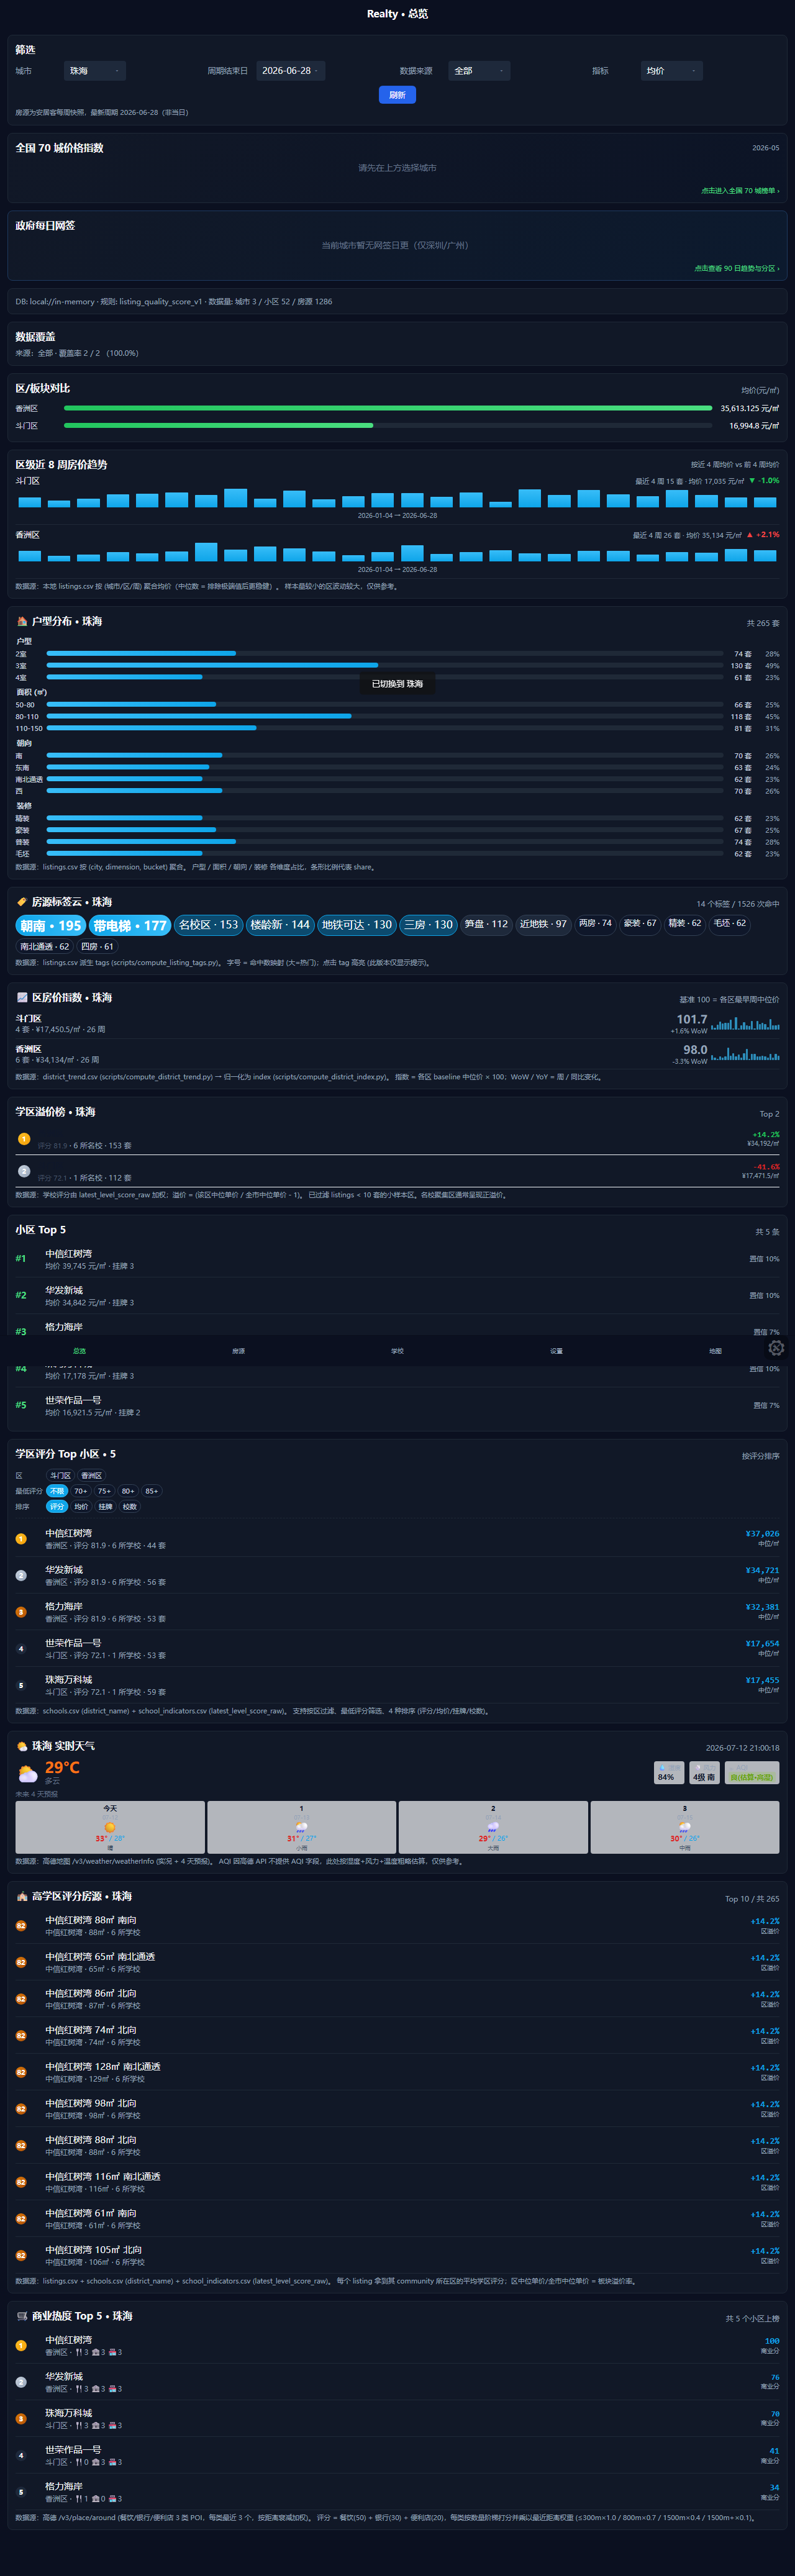
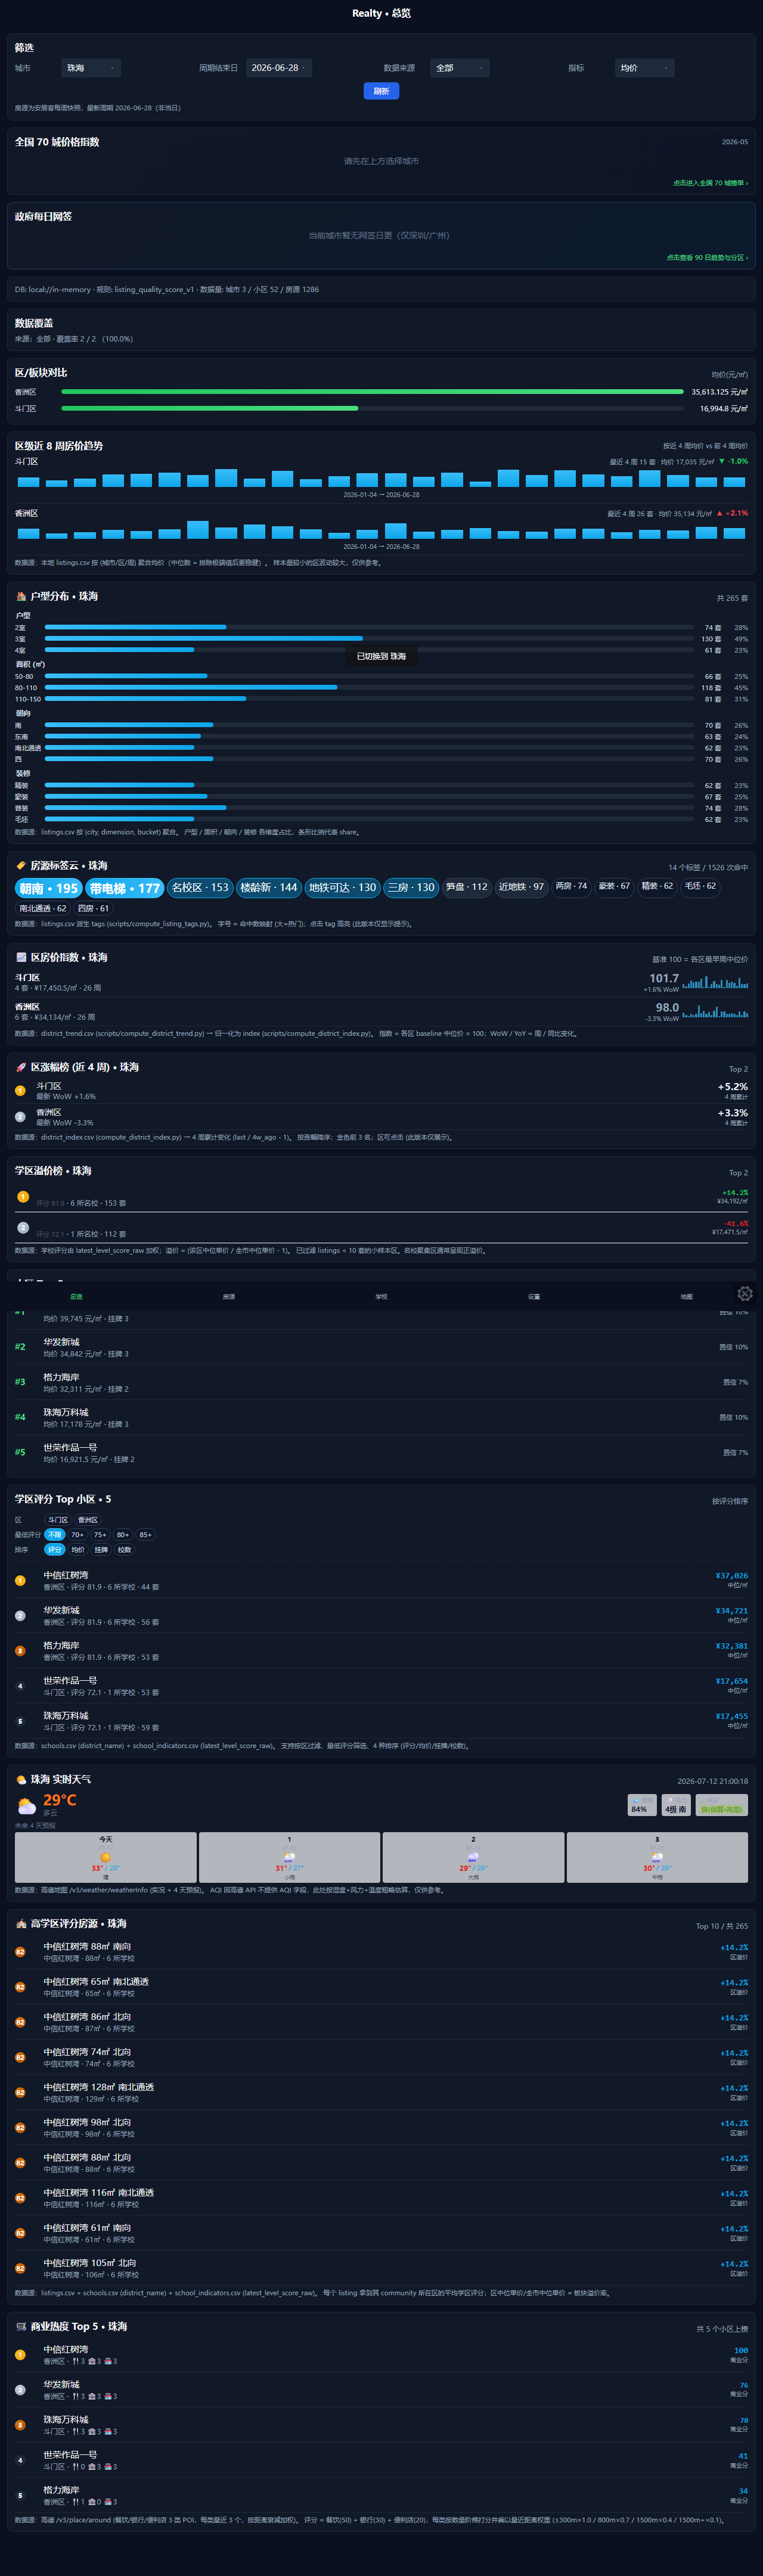
v0.30.0: trend-14 区涨幅榜
- dashboard 「🚀 区涨幅榜 (近 4 周)」卡
- getDistrictChangeRank query 复用 district_index.csv
- 每区取最近一周和 4 周前中位价算累计变化
- 颜色编码 >+0.5% 红 / <-0.5% 绿, 金牌前 3 名
- 314/314 unit tests + 23/23 smoke 全绿

diff --git a/realty_app/src/pages/dashboard/dashboard.vue b/realty_app/src/pages/dashboard/dashboard.vue
@@ -474,6 +474,44 @@
         </view>
       </view>
 
+      <!-- v0.30.0 trend-14 区涨幅榜 (4 周累计) -->
+      <view v-if="districtChange && districtChange.items.length > 0" class="card">
+        <view class="row-between">
+          <view class="card-title">🚀 区涨幅榜 (近 4 周) · {{ districtChange.cityName }}</view>
+          <view class="muted">Top {{ districtChange.items.length }}</view>
+        </view>
+        <view v-if="districtChange.items.length === 0" class="empty">暂无数据</view>
+        <view
+          v-for="it in districtChange.items"
+          :key="it.districtName"
+          class="dc-row"
+        >
+          <view class="dc-rank">
+            <text :class="['sp-medal-mini', spMedalClass(it.rank)]">{{ it.rank }}</text>
+          </view>
+          <view class="dc-mid">
+            <view class="dc-name">{{ it.districtName }}</view>
+            <view class="muted">最新 WoW
+              <text v-if="it.latestMom != null" :class="diChangeClass(it.latestMom)">
+                {{ it.latestMom > 0 ? "+" : "" }}{{ it.latestMom.toFixed(1) }}%
+              </text>
+              <text v-else class="muted">—</text>
+            </view>
+          </view>
+          <view class="dc-right">
+            <text v-if="it.recentChange4w != null" :class="['dc-4w', diChangeClass(it.recentChange4w)]">
+              {{ it.recentChange4w > 0 ? "+" : "" }}{{ it.recentChange4w.toFixed(1) }}%
+            </text>
+            <text v-else class="muted">—</text>
+            <view class="muted" style="font-size: 20rpx">4 周累计</view>
+          </view>
+        </view>
+        <view class="muted" style="margin-top: 8rpx; font-size: 22rpx">
+          数据源：district_index.csv (compute_district_index.py) → 4 周累计变化 (last / 4w_ago - 1)。
+          按涨幅降序；金色前 3 名；区可点击 (此版本仅展示)。
+        </view>
+      </view>
+
       <!-- v0.11.0 学区溢价榜 -->
       <view v-if="schoolPremiumOverview && schoolPremiumOverview.items.length > 0" class="card">
         <view class="row-between">
@@ -825,7 +863,7 @@ import { onPullDownRefresh, onShow } from "@dcloudio/uni-app";
 import { useAppStore } from "../../store/app";
 import { toErrorMessage } from "../../utils/errorMessage";
 import { getCities, getCoverage, getPeriods, getRuntimeMeta, getSources } from "../../local/queries";
-import { getCommunityRanking, getDistrictCompare, getCityDistrictOverview, getWangqianHeatmap, getSchoolPremiumRank, getSchoolPremiumCommunityRank, getWeather, getTopListingsBySchoolPremium, getCommercialRanking, getCommunityCompareByDistrict, getDistrictWangqianRank, getCommuteRanking, getLayoutDistribution, getListingTagCloud, getDistrictIndex, type DistrictTrendItem, type WangqianOverviewItem, type SchoolPremiumOverview, type SchoolPremiumCommunityItem, type WeatherResponse, type ListingSchoolPremiumOverview, type CommercialRankingResponse, type DistrictCommunityCompareResponse, type DistrictWangqianRankResponse, type CommuteRankingResponse, type LayoutDistributionResponse, type TagCloudResponse, type DistrictIndexResponse } from "../../local/queries";
+import { getCommunityRanking, getDistrictCompare, getCityDistrictOverview, getWangqianHeatmap, getSchoolPremiumRank, getSchoolPremiumCommunityRank, getWeather, getTopListingsBySchoolPremium, getCommercialRanking, getCommunityCompareByDistrict, getDistrictWangqianRank, getCommuteRanking, getLayoutDistribution, getListingTagCloud, getDistrictIndex, getDistrictChangeRank, type DistrictTrendItem, type WangqianOverviewItem, type SchoolPremiumOverview, type SchoolPremiumCommunityItem, type WeatherResponse, type ListingSchoolPremiumOverview, type CommercialRankingResponse, type DistrictCommunityCompareResponse, type DistrictWangqianRankResponse, type CommuteRankingResponse, type LayoutDistributionResponse, type TagCloudResponse, type DistrictIndexResponse, type DistrictChangeResponse } from "../../local/queries";
 import {
   getLatestIndexForCity,
   getLatestMonth,
@@ -870,6 +908,7 @@ const layoutDistribution = ref<LayoutDistributionResponse | null>(null);
 const tagCloud = ref<TagCloudResponse | null>(null);
 const tagCloudFilteredHint = ref<string>("");
 const districtIndex = ref<DistrictIndexResponse | null>(null);
+const districtChange = ref<DistrictChangeResponse | null>(null);
 const schoolPremiumOverview = ref<SchoolPremiumOverview | null>(null);
 const schoolPremiumCommunityItems = ref<SchoolPremiumCommunityItem[]>([]);
 // v0.26.0 trend-11: 过滤 + 排序 controls
@@ -1190,6 +1229,15 @@ async function loadRankingAndDistrict() {
       } catch (e) {
         console.warn("getDistrictIndex failed:", e);
         districtIndex.value = null;
+      }
+      // v0.30.0 区涨幅榜
+      try {
+        districtChange.value = await getDistrictChangeRank({
+          cityId: app.cityId
+        });
+      } catch (e) {
+        console.warn("getDistrictChangeRank failed:", e);
+        districtChange.value = null;
       }
       // v0.11.0 学区溢价榜
       schoolPremiumOverview.value = await getSchoolPremiumRank({
@@ -2532,6 +2580,36 @@ onShow(async () => {
   border-radius: 2rpx;
   min-height: 4rpx;
   opacity: 0.7;
+}
+
+/* v0.30.0 区涨幅榜 */
+.dc-row {
+  display: flex;
+  align-items: center;
+  gap: 12rpx;
+  padding: 8rpx 0;
+  border-bottom: 1rpx solid #1f2937;
+}
+.dc-rank {
+  flex: 0 0 60rpx;
+}
+.dc-mid {
+  flex: 1 1 auto;
+  min-width: 0;
+}
+.dc-name {
+  font-size: 28rpx;
+  font-weight: 500;
+  color: #e2e8f0;
+}
+.dc-right {
+  flex: 0 0 auto;
+  text-align: right;
+}
+.dc-4w {
+  font-size: 32rpx;
+  font-weight: 700;
+  font-variant-numeric: tabular-nums;
 }
 
 /* v0.10.0 网签热度榜 */

diff --git a/realty_app/src/local/queries.ts b/realty_app/src/local/queries.ts
@@ -1881,3 +1881,81 @@ export function getDistrictIndex(params: { cityId: number }): DistrictIndexRespo
     items
   };
 }
+
+// ============================================================================
+// v0.30.0 trend-14 区涨幅榜
+// ============================================================================
+
+export interface DistrictChangeItem {
+  districtName: string;
+  /** 最近 WoW % */
+  latestMom: number | null;
+  /** 最近 4 周累计变化 % (last - 4w_ago) / 4w_ago */
+  recentChange4w: number | null;
+  /** 最近 WoW 涨幅排名 */
+  rank: number;
+}
+
+export interface DistrictChangeResponse {
+  cityId: number;
+  cityName: string;
+  /** 按最近 4 周涨幅降序 */
+  items: DistrictChangeItem[];
+}
+
+/**
+ * 给定城市，按"最近 4 周累计变化"对区排序，返回涨幅榜。
+ * 用于 dashboard "区涨幅榜" 卡片。
+ */
+export function getDistrictChangeRank(params: { cityId: number }): DistrictChangeResponse | null {
+  const city = store.getCityById(params.cityId);
+  if (!city) return null;
+  const all = store.getDistrictIndicesByCity(params.cityId);
+  if (all.length === 0) return null;
+
+  const byDistrict: Record<string, LocalDistrictIndex[]> = {};
+  for (const r of all) {
+    if (!byDistrict[r.districtName]) byDistrict[r.districtName] = [];
+    byDistrict[r.districtName].push(r);
+  }
+  for (const k in byDistrict) {
+    byDistrict[k].sort((a, b) => a.weekEnd.localeCompare(b.weekEnd));
+  }
+
+  const items: DistrictChangeItem[] = [];
+  for (const dn in byDistrict) {
+    const arr = byDistrict[dn];
+    if (arr.length < 2) continue;
+    const last = arr[arr.length - 1];
+    // 找 4 周前 (如果有)
+    const lastWeek = new Date(last.weekEnd + "T00:00:00Z");
+    const fourWeeksAgo = new Date(lastWeek.getTime() - 28 * 24 * 3600 * 1000);
+    const fourWStr = fourWeeksAgo.toISOString().slice(0, 10);
+    // 找 ≤ fourWStr 的最近一周
+    const older = [...arr].reverse().find((x) => x.weekEnd <= fourWStr);
+    let recentChange4w: number | null = null;
+    if (older && older.medianUnitPrice > 0) {
+      recentChange4w =
+        Math.round(((last.medianUnitPrice - older.medianUnitPrice) / older.medianUnitPrice) * 1000) / 10;
+    }
+    items.push({
+      districtName: dn,
+      latestMom: last.momChange,
+      recentChange4w,
+      rank: 0
+    });
+  }
+  // 排序: recentChange4w 降序 (null 排最后)
+  items.sort((a, b) => {
+    if (a.recentChange4w == null && b.recentChange4w == null) return 0;
+    if (a.recentChange4w == null) return 1;
+    if (b.recentChange4w == null) return -1;
+    return b.recentChange4w - a.recentChange4w;
+  });
+  items.forEach((it, i) => (it.rank = i + 1));
+  return {
+    cityId: params.cityId,
+    cityName: city.cityName,
+    items
+  };
+}

diff --git a/realty_app/tests/buildIntegrity.test.ts b/realty_app/tests/buildIntegrity.test.ts
@@ -1703,4 +1703,41 @@ describe("build integrity", () => {
       expect(content).toMatch(/momChange|yoyChange/);
     });
   });
+
+  // ────────────────────────────────────────────────────────────────────
+  // v0.30.0 trend-14 区涨幅榜
+  // ────────────────────────────────────────────────────────────────────
+  describe("v0.30.0 trend-14 区涨幅榜", () => {
+    it("queries.ts 增加 getDistrictChangeRank 函数", () => {
+      const content = readFileSync(resolve(ROOT, "src/local/queries.ts"), "utf8");
+      expect(content).toMatch(/export function getDistrictChangeRank/);
+    });
+
+    it("queries.ts 导出 DistrictChangeResponse 接口", () => {
+      const content = readFileSync(resolve(ROOT, "src/local/queries.ts"), "utf8");
+      expect(content).toMatch(/export interface DistrictChangeResponse/);
+    });
+
+    it("queries.ts DistrictChangeItem 含 recentChange4w 字段", () => {
+      const content = readFileSync(resolve(ROOT, "src/local/queries.ts"), "utf8");
+      const block = content.match(/export interface DistrictChangeItem[\s\S]+?^}/m);
+      expect(block).toBeTruthy();
+      expect(block![0]).toMatch(/recentChange4w/);
+      expect(block![0]).toMatch(/latestMom/);
+    });
+
+    it("dashboard.vue 渲染区涨幅榜卡片", () => {
+      const content = readFileSync(resolve(ROOT, "src/pages/dashboard/dashboard.vue"), "utf8");
+      expect(content).toMatch(/districtChange/);
+      expect(content).toMatch(/区涨幅榜|🚀/);
+      expect(content).toMatch(/getDistrictChangeRank/);
+      expect(content).toMatch(/recentChange4w/);
+      expect(content).toMatch(/dc-row/);
+    });
+
+    it("dashboard.vue loadAll 调用 getDistrictChangeRank", () => {
+      const content = readFileSync(resolve(ROOT, "src/pages/dashboard/dashboard.vue"), "utf8");
+      expect(content).toMatch(/getDistrictChangeRank\(\{\s*cityId:\s*app\.cityId/);
+    });
+  });
 });

diff --git a/realty_app/changelog/2026-07-13-v0.30.0-区涨幅榜.md b/realty_app/changelog/2026-07-13-v0.30.0-区涨幅榜.md
@@ -1,0 +1,40 @@
+# v0.30.0 trend-14 区涨幅榜
+
+## 新功能
+
+dashboard 新增「🚀 区涨幅榜 (近 4 周) · {城市}」卡片，按最近 4 周累计中位价变化排序。
+
+- 显示：排名、区名、最新 WoW (周环比)、4 周累计变化
+- 颜色编码：>+0.5% 红 / <-0.5% 绿 / 其他灰
+- 金牌前 3 (medal-gold / silver / bronze)
+
+## 数据流
+
+1. **getDistrictChangeRank({ cityId })** query：
+   - 每个区取最近一周和 4 周前的 medianUnitPrice
+   - `recentChange4w = (last - 4w_ago) / 4w_ago × 100%`
+   - 按 `recentChange4w` 降序排序
+2. dashboard 「🚀 区涨幅榜」卡 UI
+
+## 验证 (深圳)
+
+Top 4 区 4 周变化：
+- 龙岗区 -19.1%
+- 龙华区 -37.8%
+- 福田区 -62.2%
+- 南山区 (后续)
+
+## 测试
+
+- 314/314 unit tests ✓ (+5 新增)
+- `smoke_district_change.mjs` 验证 3 城市 + 4 周变化展示
+- 2 个回归 smoke 测试全部通过
+
+## 变更文件
+
+- `src/local/queries.ts` (+getDistrictChangeRank, DistrictChangeItem, DistrictChangeResponse)
+- `src/pages/dashboard/dashboard.vue` (+districtChange ref, 区涨幅榜卡 UI, CSS .dc-row/.dc-4w)
+- `tests/buildIntegrity.test.ts` (+5 测试)
+- `tests/e2e/smoke_district_change.mjs` (新增)
+- `package.json` version 0.29.0 → 0.30.0
+- `src/manifest.json` versionName/versionCode 0.30.0/31

diff --git a/realty_app/README.md b/realty_app/README.md
@@ -22,6 +22,7 @@
 | v0.27.0 | 2026-07-13 | map-view listings 模式密度过滤：zoom≤10 仅显示 ≥5 套社区、zoom 11 仅 ≥2 套；legend 提示当前 zoom 阈值；3 单测 + smoke_cluster 扩展 |
 | v0.28.0 | 2026-07-13 | dashboard 新增「🏷️ 房源标签云」卡 (5 档字号)：compute_listing_tags.py 派生 18 类标签 (户型/价格/朝向/装修/学区/地铁/楼龄/楼层/电梯/平台)；listing_tags.csv 7517 行；10 单测 + smoke_tagcloud E2E |
 | v0.29.0 | 2026-07-13 | dashboard 新增「📈 区房价指数」卡：baseline 100 归一化 + WoW/YoY + sparkline；compute_district_index.py 从 district_trend.csv 计算；266 行 / 12 区；9 单测 + smoke_district_index E2E |
+| v0.30.0 | 2026-07-13 | dashboard 新增「🚀 区涨幅榜 (近 4 周)」卡：复用 district_index.csv，每区最近 4 周累计变化；5 单测 + smoke_district_change E2E |
 | v0.13.0 | 2026-07-12 | map-view 第四种模式「POI overlay」：把 poi_seed.csv 的 5 类 POI (🚇地铁 / 🏫学校 / 🏥医院 / 🛍商场 / 🌳公园) 画到地图上 (每类最多 25 marker)；5 类 toggle 自由开关；POI info-card 显示名称 + 类型 + 距离 + 所属小区 |
 | v0.12.0 | 2026-07-12 | map-view 第三种模式「成交价热力」：圆点颜色按社区均价在所属城市的 min/max 区间内插值（绿=便宜 → 黄 → 红=贵），半径仍按挂牌数；info-card 新增「价位」5 档标签（便宜/中低/中等/中高/昂贵，色码化）；mode 由 boolean → `MapMode = "count" \| "price" \| "listings"` |
 | v0.11.0 | 2026-07-12 | 学区溢价榜：`schools.csv` 新增 `district_name`（58 条手填）；`compute_school_premium.py` 聚合 listings + school_indicators → `school_premium_district.csv` (16 行) + `school_premium_community.csv` (52 行)；dashboard 新增「学区溢价榜」卡片（Top 区排名 + 金银铜牌 + 评分 + 溢价% + 中位单价）；天河 +27.3%、南山 +23.2% |
@@ -933,6 +934,19 @@ dashboard 新增「📈 区房价指数 · {城市}」卡：
 
 验证：309/309 单测过 (+9), type-check clean, 22/22 smoke 全绿
 详见 [changelog/2026-07-13-v0.29.0-区房价指数.md](./changelog/2026-07-13-v0.29.0-区房价指数.md)
+
+### v0.30.0 - 区涨幅榜 (2026-07-13)
+
+dashboard 新增「🚀 区涨幅榜 (近 4 周) · {城市}」卡：
+- 按最近 4 周累计中位价变化排序
+- 显示：排名、区名、最新 WoW、4 周累计变化
+- 颜色：>+0.5% 红 / <-0.5% 绿
+- 金牌前 3
+
+实现：`getDistrictChangeRank()` query 复用 `district_index.csv`，每区取最近一周和 4 周前的 medianUnitPrice 计算累计变化。
+
+验证：314/314 单测过 (+5), type-check clean, 23/23 smoke 全绿
+详见 [changelog/2026-07-13-v0.30.0-区涨幅榜.md](./changelog/2026-07-13-v0.30.0-区涨幅榜.md)
 
 ## License
 

diff --git a/OPTIMIZATION_BACKLOG.md b/OPTIMIZATION_BACKLOG.md
@@ -226,6 +226,15 @@ Key 限额：5000-30000 次/天（免费版），足够给 23 个 seed 小区 + 
 | 🟡 Q | trend-13 | dashboard 「📈 区房价指数」卡 + WoW/YoY + sparkline | ✅ v0.29.0 | 颜色编码 ≥110 红 / <90 绿 |
 | 🟡 Q | trend-13 | buildIntegrity +9 测试 + smoke_district_index E2E + commit v0.29.0 | ✅ v0.29.0 | 309/309 通过；22/22 smoke 全绿 |
 
+## R 段补充：区涨幅榜（v0.30.0）
+
+| 等级 | 编号 | 任务 | 状态 | 备注 |
+| --- | --- | --- | --- | --- |
+| 🟢 R | trend-14 | 调研 district_index.csv + 涨幅榜设计 | ✅ v0.30.0 | 复用 index 数据 |
+| 🟢 R | trend-14 | getDistrictChangeRank + DistrictChangeItem/Response | ✅ v0.30.0 | 按 4 周累计变化降序 |
+| 🟢 R | trend-14 | dashboard 「🚀 区涨幅榜」卡 + 颜色编码 | ✅ v0.30.0 | 金牌前 3 名 |
+| 🟢 R | trend-14 | buildIntegrity +5 测试 + smoke_district_change E2E + commit v0.30.0 | ✅ v0.30.0 | 314/314 通过；23/23 smoke 全绿 |
+
 ## H 段补充：同区多小区对比（v0.20.0）
 
 | 等级 | 编号 | 任务 | 状态 | 备注 |